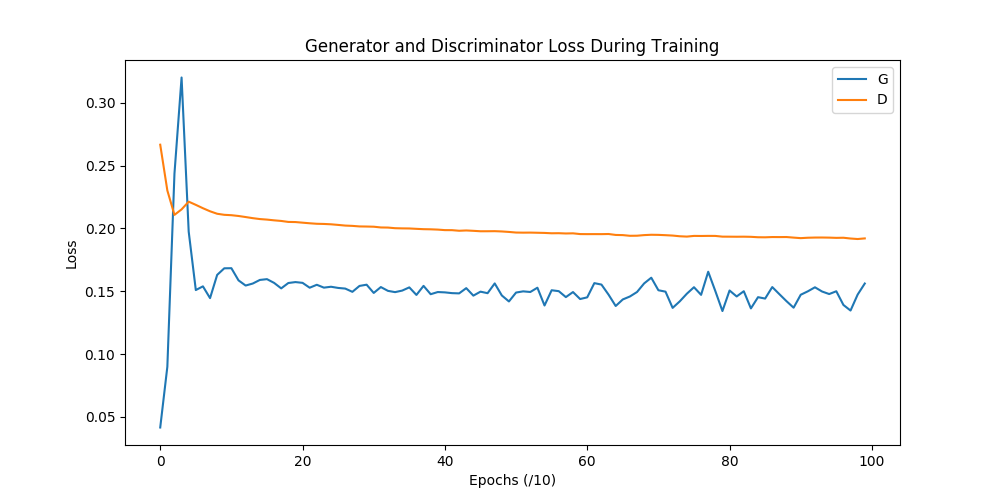
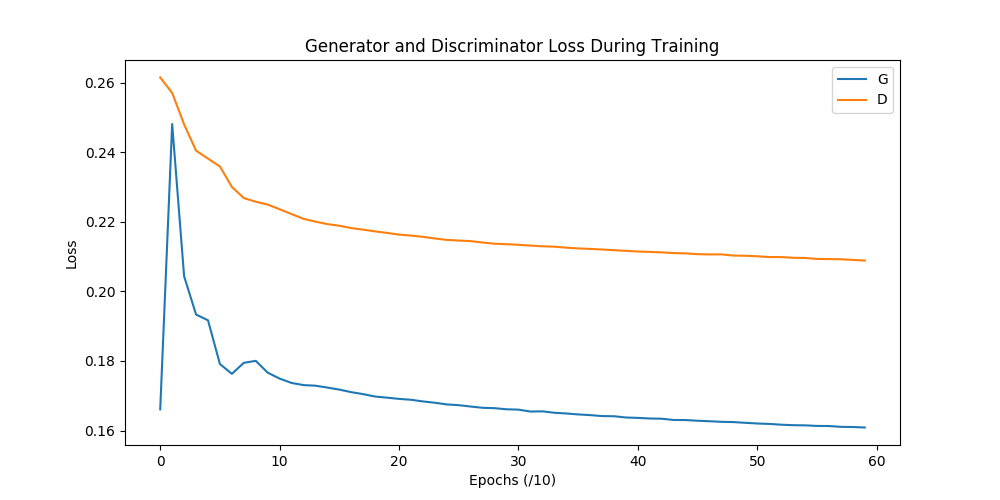
Compte rendue W3_current_began

diff --git a/W3.md b/W3.md
@@ -122,11 +122,12 @@ __Résultats__ :
 __Conclusion__ :
   - Peut concluant
 
-##### Test BEGAN en 32*32 epochs=1000 lr=0.0004 gamma=0.75
-Ajout d'un nouveau GAN conçus pour permettre la convergeance des deux réseaux antagoniste
+##### Test BEGAN en 32*32 epochs=600 lr=0.0004 gamma=0.75
+Ajout d'un nouveau GAN conçus pour permettre la convergeance des deux réseaux antagoniste. [ref](https://arxiv.org/pdf/1703.10717.pdf). 
 
 __Résultats__ :
-  - BEGAN :
+  - BEGAN : Le score de convergance (M) diminue, ce qui est bon signe, mais il devient assez lent très rapidement. Les images sont relativement bonne vus le faible nombre d'epochs tester.
+   Time = 1h25
 
 __Conclusion__ :
-  - : 
+  - Il faudra faire des testes plus long mais ces premiers résultats sont prometteur.
